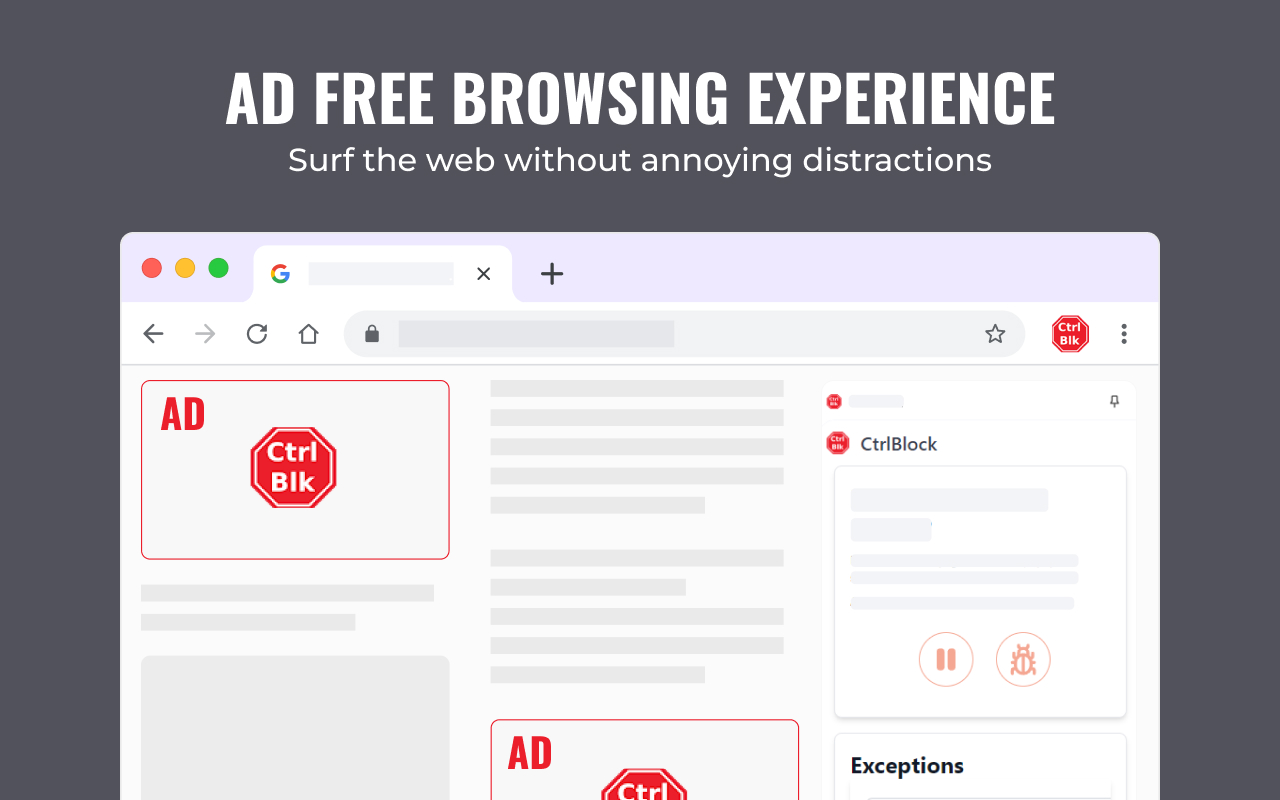
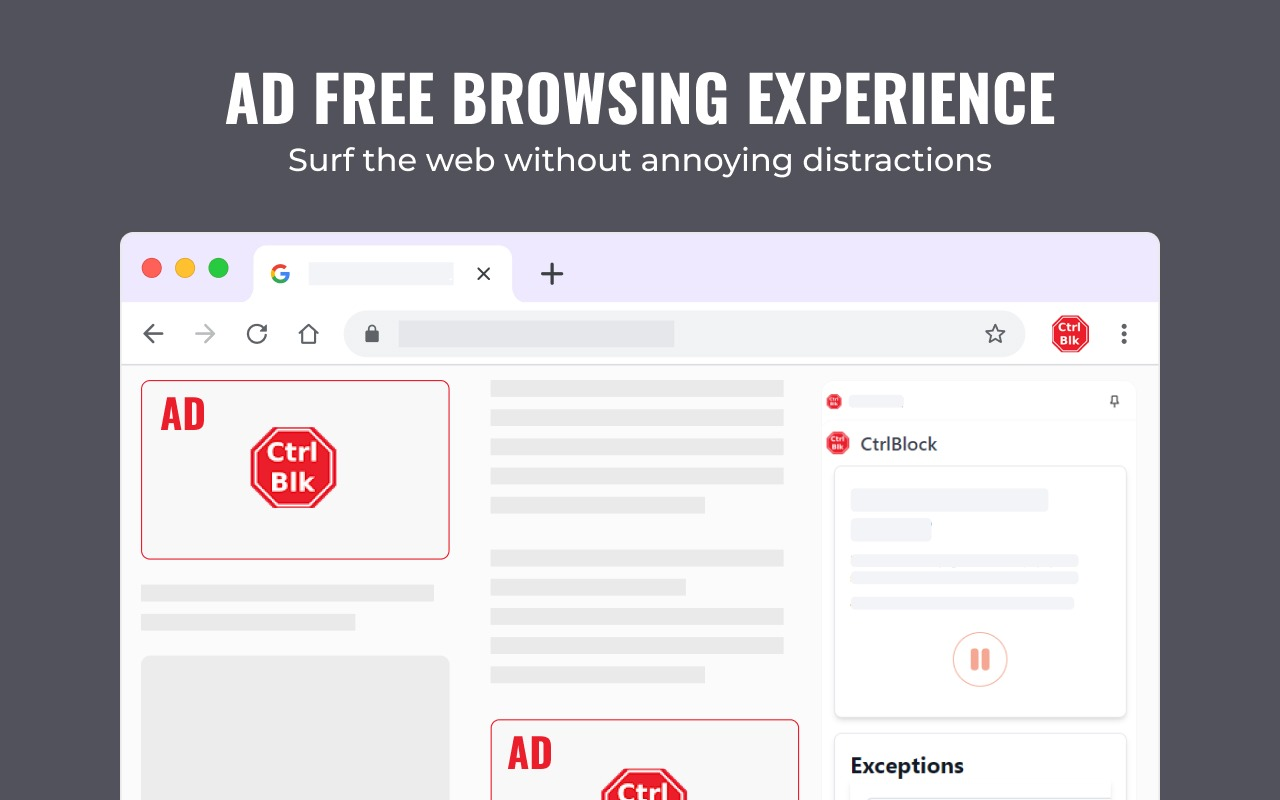
Remove ad-report advertising from the homepage carousel (#11)
Ad reports were removed from the extension in 0.6.0, but the homepage
carousel still advertised them.

- Drop the "Sending an AdReport" slide and delete
`static/images/carousel/sending-an-ad-report.jpg`.
- Edit the three remaining screenshots (same names, still 1280x800) so
the side panel shows only a centred pause button, as the 0.6.0 panel
does. The bug (report) button is gone.
- Give each slide its own `title` (it equalled "Blocking ads on a
website" on every slide), matching its `alt`, and spell YouTube
correctly.

Checks: `npm run lint` and `npm run build` pass. After the build, `grep
-rl sending-an-ad-report .svelte-kit/output` finds nothing.

Owner hand checks:
- On the Cloudflare Pages preview, the carousel shows three slides, none
about reports, each with only a centred pause button.
- In the Chrome Web Store developer dashboard, delete the "Build in
feedback system" screenshot and replace the other three with the edited
images from this PR.

Closes #9

diff --git a/src/routes/+page.svelte b/src/routes/+page.svelte
@@ -22,17 +22,12 @@
 		{
 			alt: 'Blocking popups on a website',
 			src: '/images/carousel/blocking-popups-on-a-website.jpg',
-			title: 'Blocking ads on a website'
+			title: 'Blocking popups on a website'
 		},
 		{
-			alt: 'Blocking video ads on youtube',
+			alt: 'Blocking video ads on YouTube',
 			src: '/images/carousel/blocking-video-ads-on-youtube.jpg',
-			title: 'Blocking ads on a website'
-		},
-		{
-			alt: 'Sending an AdReport',
-			src: '/images/carousel/sending-an-ad-report.jpg',
-			title: 'Blocking ads on a website'
+			title: 'Blocking video ads on YouTube'
 		}
 	];
 
